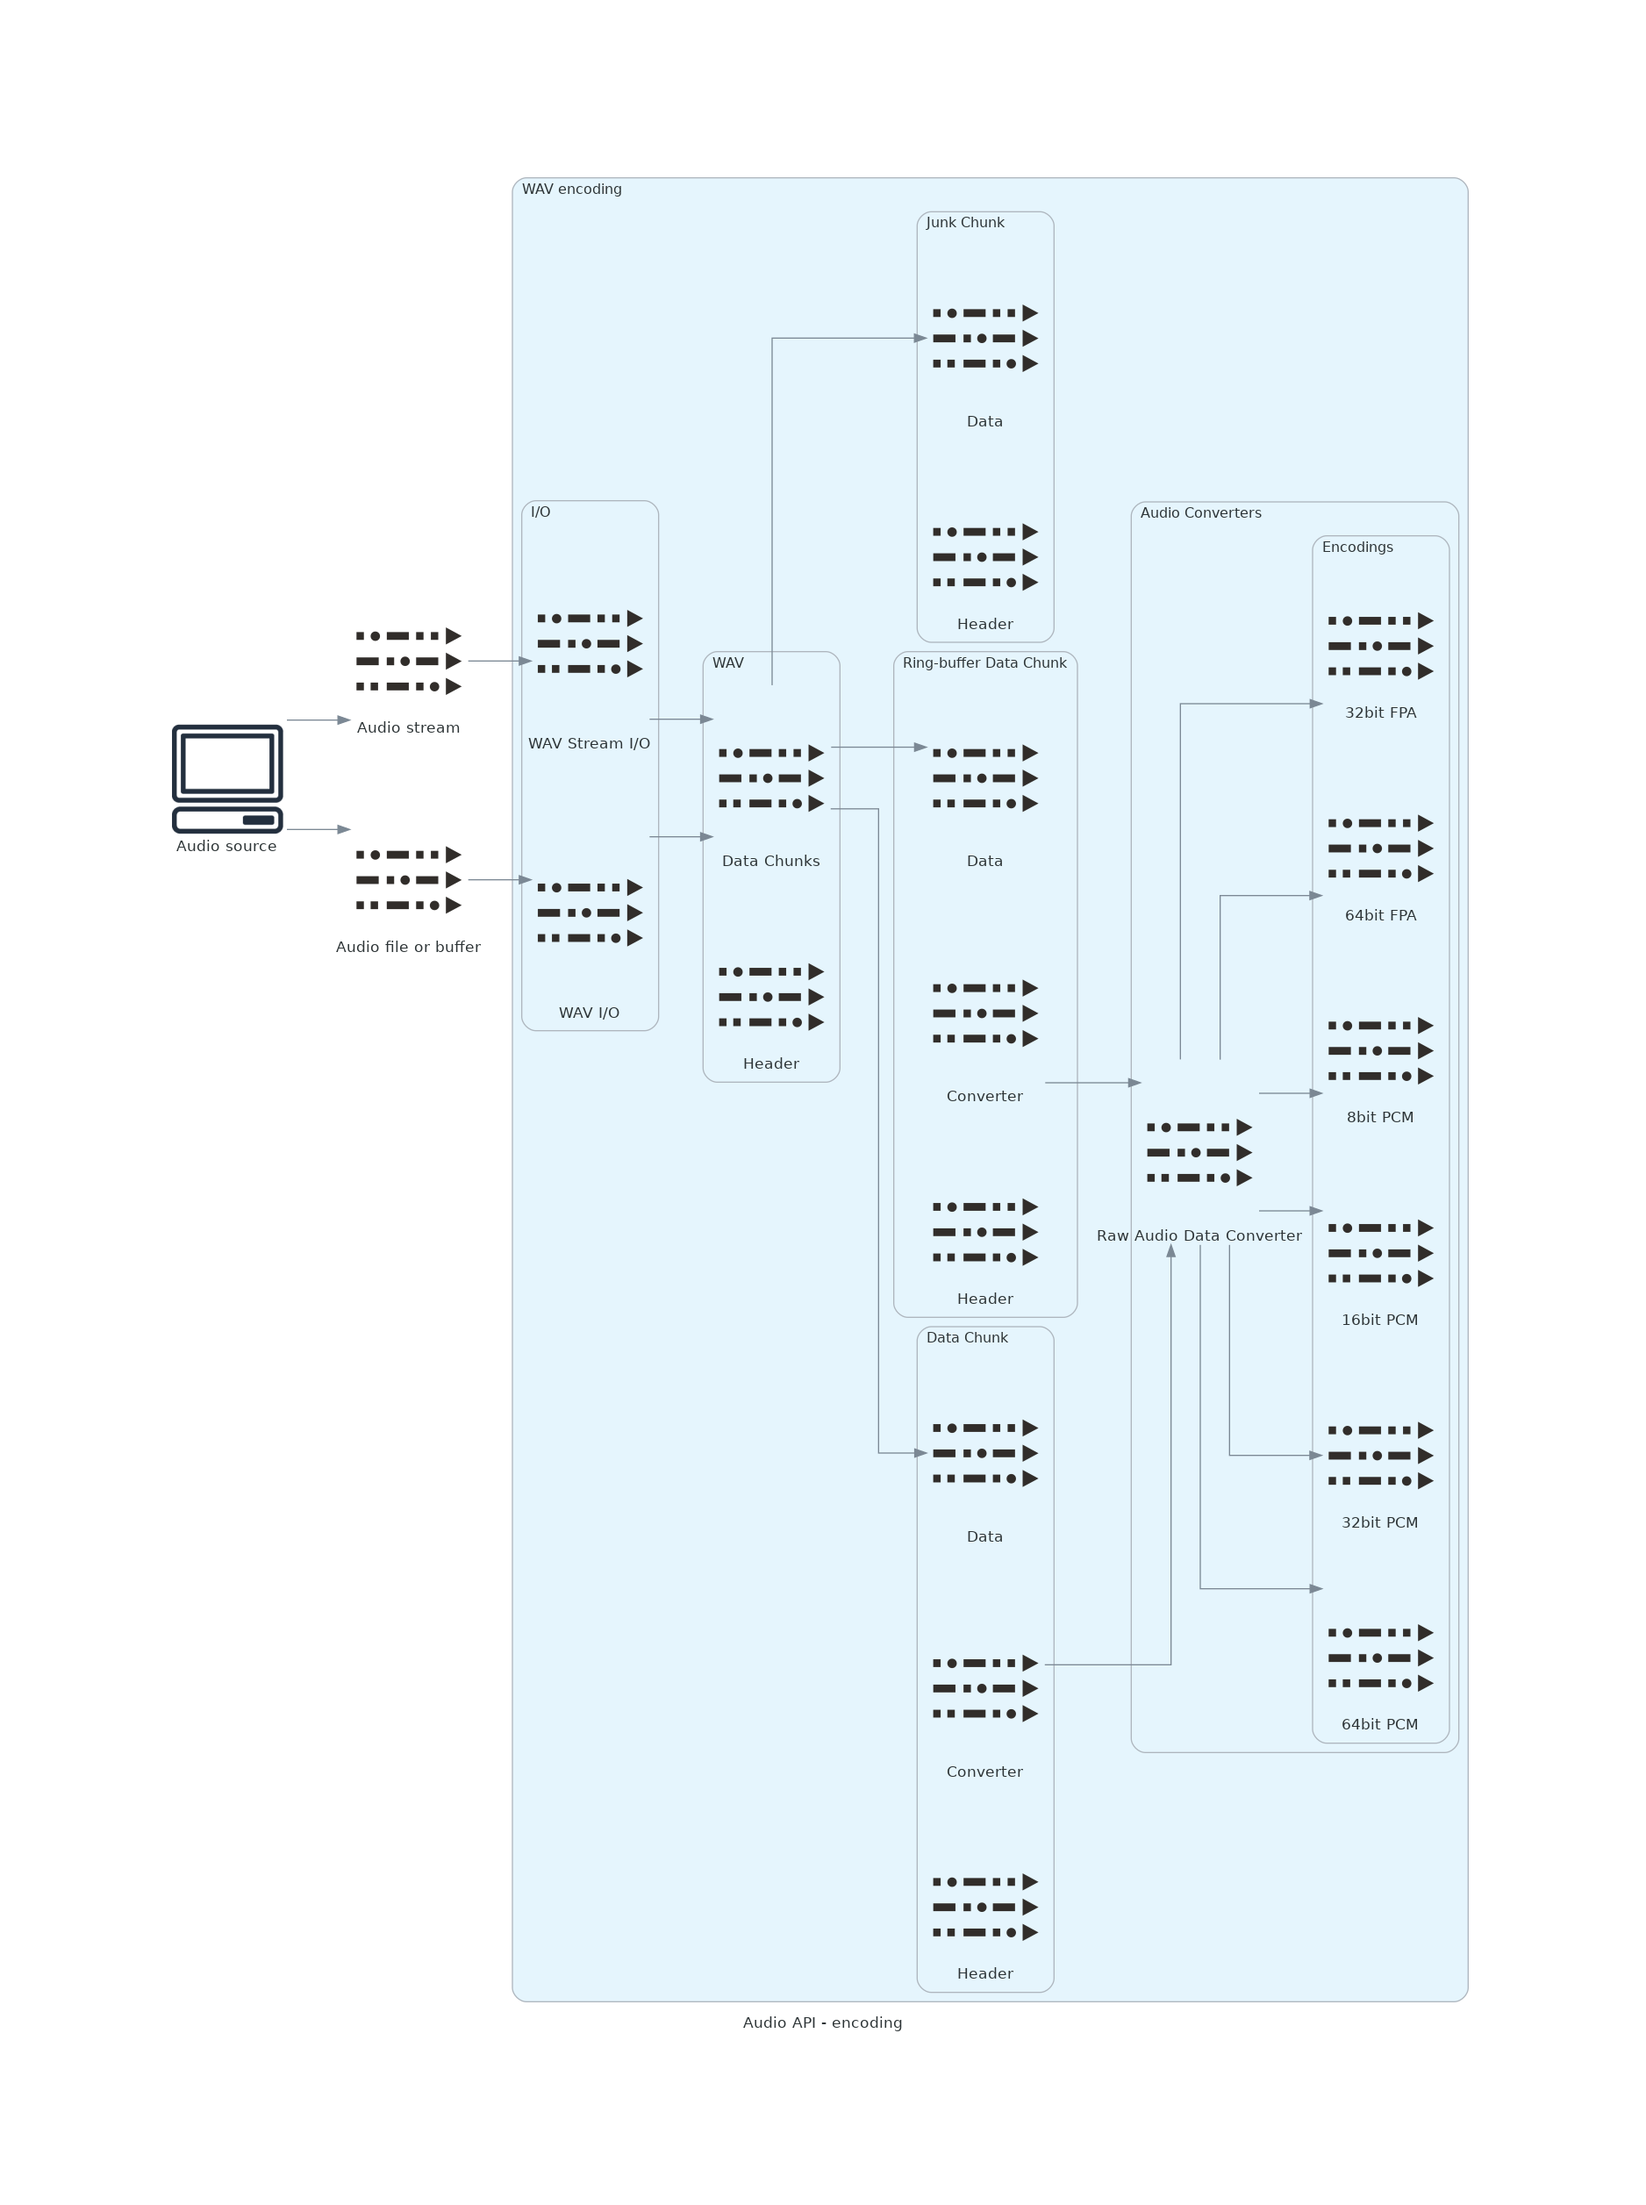
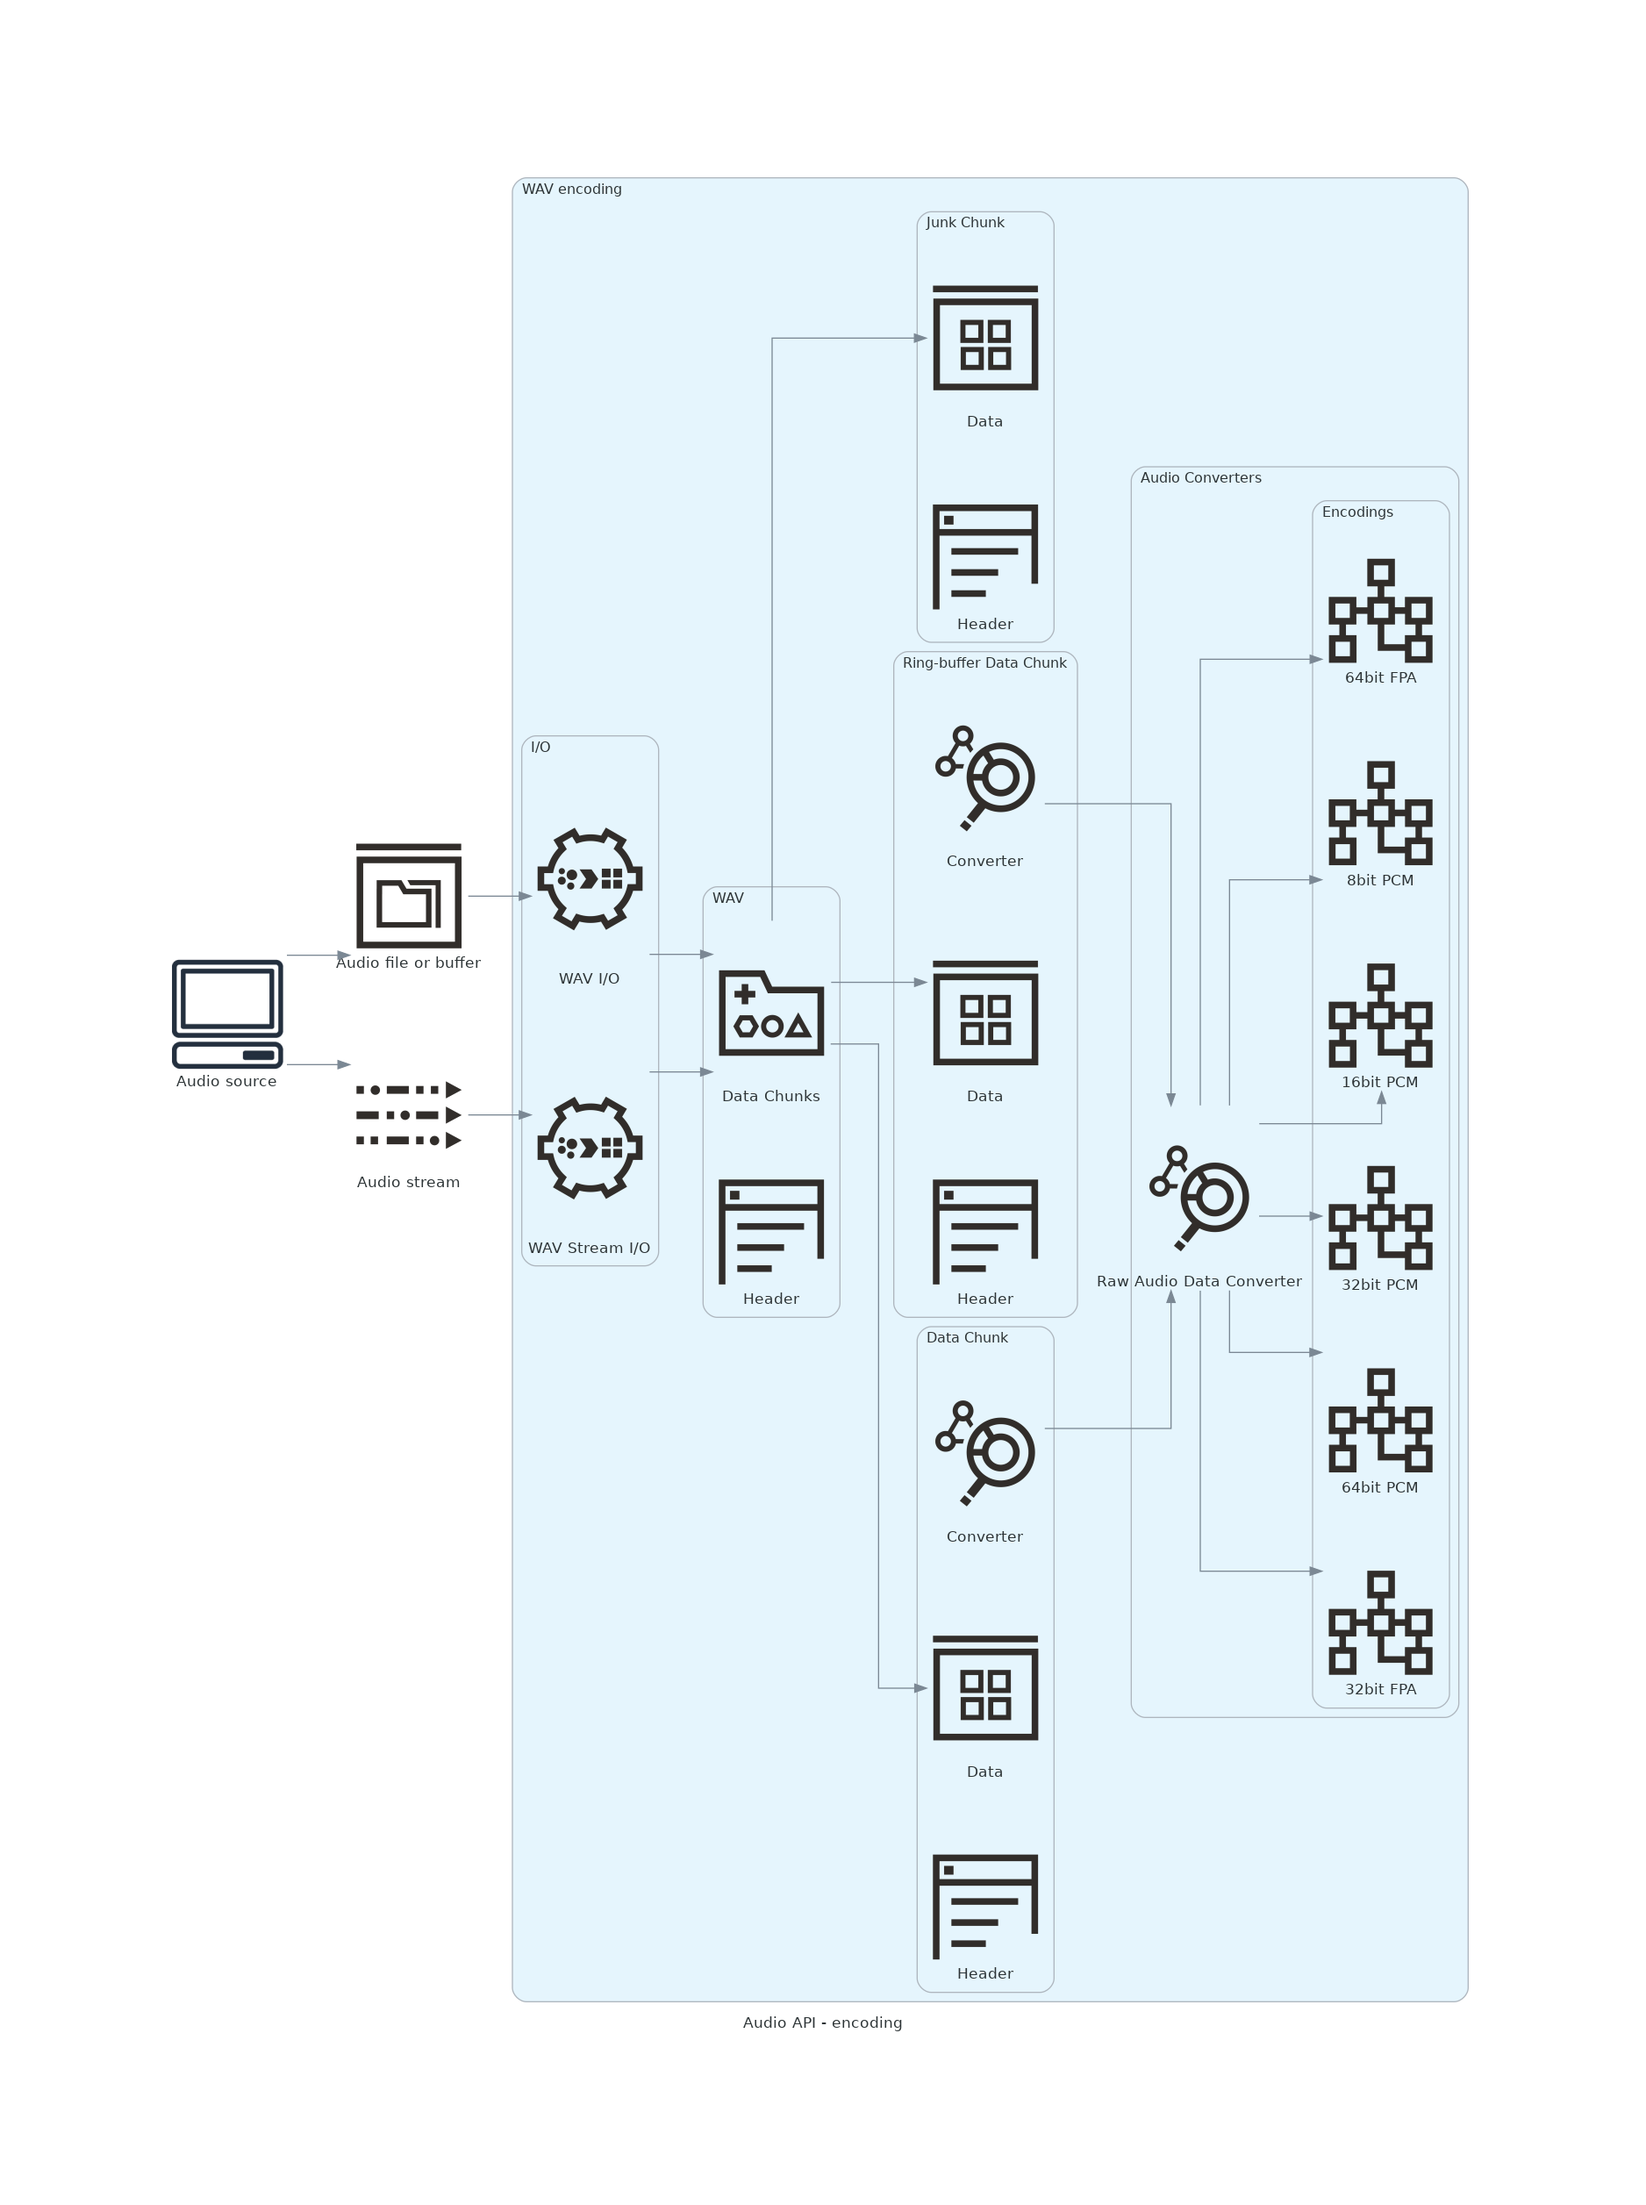
audio/diagrams: updated diagrams

diff --git a/audio/scripts/diagrams/main.go b/audio/scripts/diagrams/main.go
@@ -108,40 +108,40 @@ func generateEncoding() error {
 		return err
 	}
 
-	wavHeader := oci.Database.Stream().Label("Header")
-	wavChunks := oci.Database.Stream().Label("Data Chunks")
+	wavHeader := oci.Governance.Audit().Label("Header")
+	wavChunks := oci.Governance.Compartments().Label("Data Chunks")
 
 	wavEnc := diagram.NewGroup("wav").Label("WAV").
 		Add(wavHeader, wavChunks)
 
-	chunkHeader := oci.Database.Stream().Label("Header")
-	chunkData := oci.Database.Stream().Label("Data")
-	chunkConverter := oci.Database.Stream().Label("Converter")
+	chunkHeader := oci.Governance.Audit().Label("Header")
+	chunkData := oci.Storage.BlockStorage().Label("Data")
+	chunkConverter := oci.Database.Science().Label("Converter")
 
 	wavChunk := diagram.NewGroup("chunk").Label("Data Chunk").
 		Add(chunkHeader, chunkConverter, chunkData)
 
-	junkHeader := oci.Database.Stream().Label("Header")
-	junkData := oci.Database.Stream().Label("Data")
+	junkHeader := oci.Governance.Audit().Label("Header")
+	junkData := oci.Storage.BlockStorage().Label("Data")
 
 	wavJunk := diagram.NewGroup("junk").Label("Junk Chunk").
 		Add(junkHeader, junkData)
 
-	ringHeader := oci.Database.Stream().Label("Header")
-	ringData := oci.Database.Stream().Label("Data")
-	ringConverter := oci.Database.Stream().Label("Converter")
+	ringHeader := oci.Governance.Audit().Label("Header")
+	ringData := oci.Storage.BlockStorage().Label("Data")
+	ringConverter := oci.Database.Science().Label("Converter")
 
 	wavRingChunk := diagram.NewGroup("ring_chunk").Label("Ring-buffer Data Chunk").
 		Add(ringHeader, ringConverter, ringData)
 
-	conv8bit := oci.Database.Stream().Label("8bit PCM")
-	conv16bit := oci.Database.Stream().Label("16bit PCM")
-	conv24bit := oci.Database.Stream().Label("32bit PCM")
-	conv32bit := oci.Database.Stream().Label("64bit PCM")
-	conv32bitFloat := oci.Database.Stream().Label("32bit FPA")
-	conv64bitFloat := oci.Database.Stream().Label("64bit FPA")
+	conv8bit := oci.Database.DatabaseService().Label("8bit PCM")
+	conv16bit := oci.Database.DatabaseService().Label("16bit PCM")
+	conv24bit := oci.Database.DatabaseService().Label("32bit PCM")
+	conv32bit := oci.Database.DatabaseService().Label("64bit PCM")
+	conv32bitFloat := oci.Database.DatabaseService().Label("32bit FPA")
+	conv64bitFloat := oci.Database.DatabaseService().Label("64bit FPA")
 
-	convPlaceholder := oci.Database.Stream().Label("Raw Audio Data Converter")
+	convPlaceholder := oci.Database.Science().Label("Raw Audio Data Converter")
 	converters := diagram.NewGroup("conv").Label("Encodings").
 		Add(conv8bit, conv16bit, conv24bit, conv32bit, conv32bitFloat, conv64bitFloat)
 	converters.ConnectAllFrom(convPlaceholder.ID())
@@ -152,8 +152,8 @@ func generateEncoding() error {
 
 	wavGroup := diagram.NewGroup("wav_group").Label("WAV encoding")
 
-	wavIO := oci.Database.Stream().Label("WAV I/O")
-	wavStreamIO := oci.Database.Stream().Label("WAV Stream I/O")
+	wavIO := oci.Database.Dis().Label("WAV I/O")
+	wavStreamIO := oci.Database.Dis().Label("WAV Stream I/O")
 	wavIOGroup := diagram.NewGroup("wav_io").Label("I/O").Add(wavIO, wavStreamIO)
 
 	wavGroup.Group(wavEnc)
@@ -173,7 +173,7 @@ func generateEncoding() error {
 	client := apps.Client.Client().Label("Audio source")
 	clientGroup := diagram.NewGroup("client").Label("Source")
 
-	audioFile := oci.Database.Stream().Label("Audio file or buffer")
+	audioFile := oci.Storage.FileStorage().Label("Audio file or buffer")
 	audioStream := oci.Database.Stream().Label("Audio stream")
 
 	d.Group(wavGroup)
